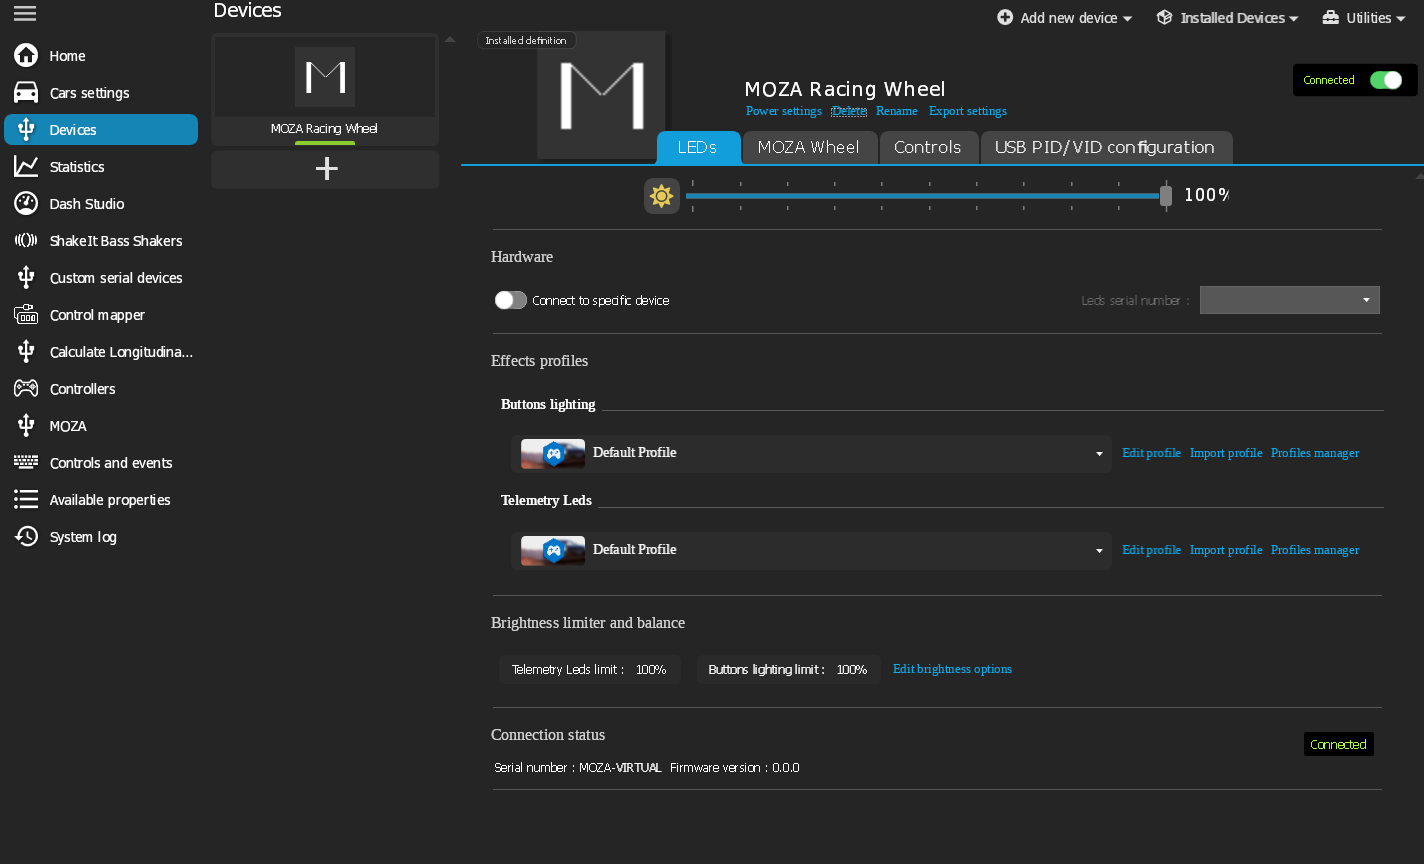
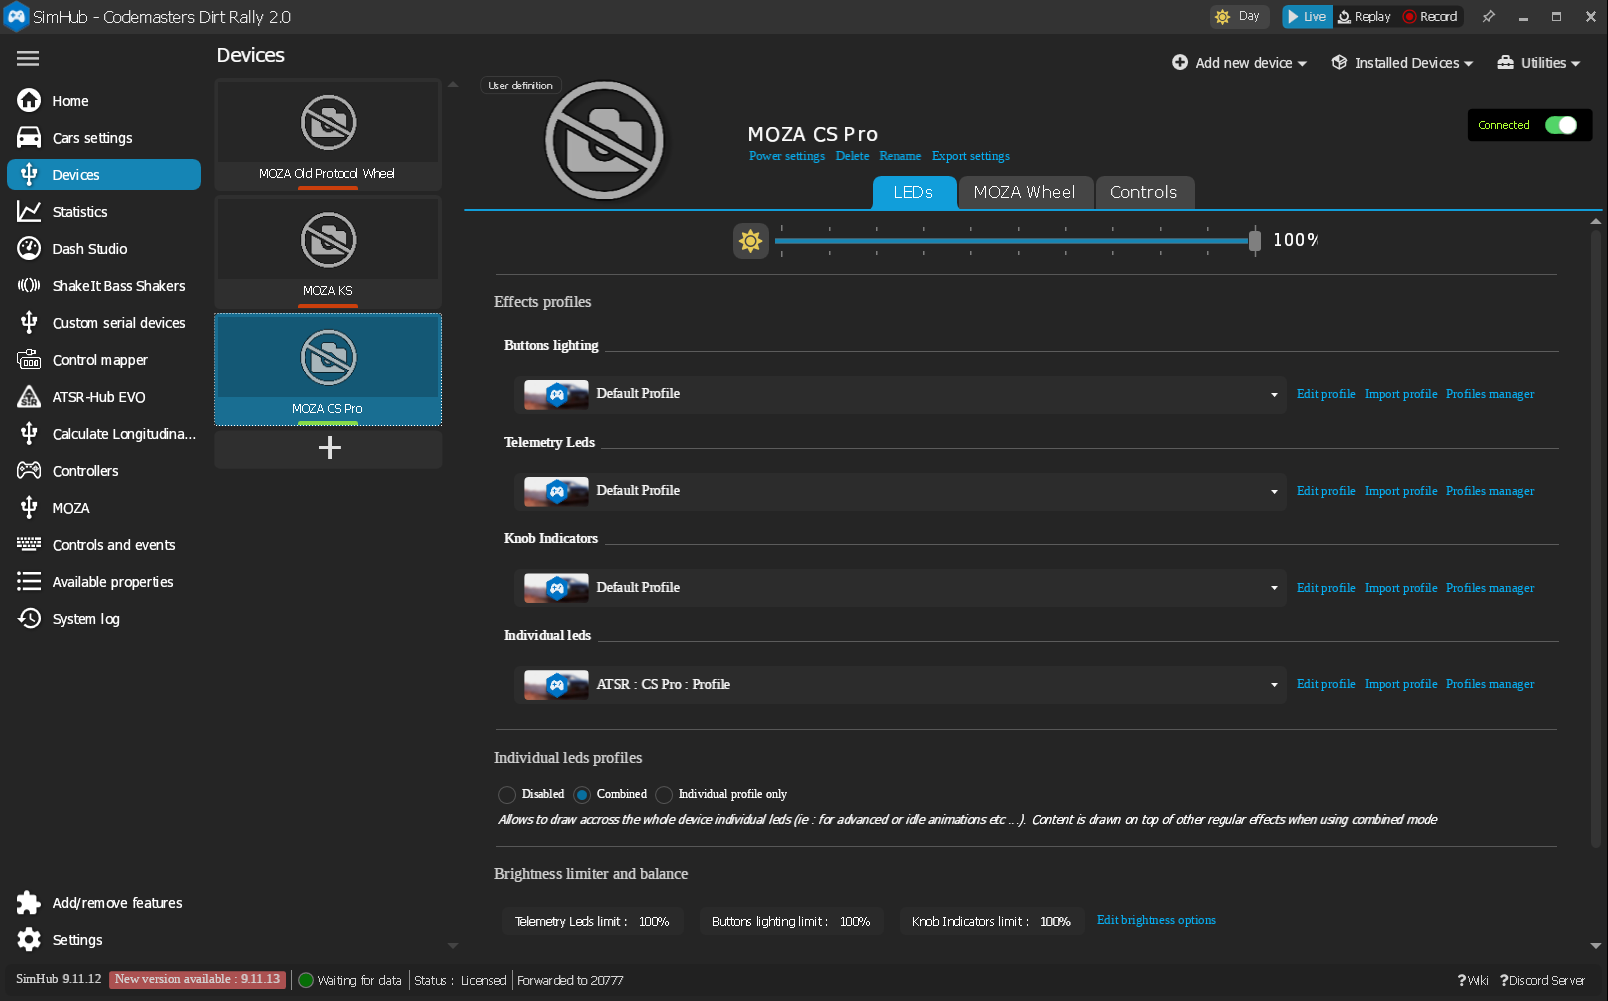
Readme updates

diff --git a/README.md b/README.md
@@ -1,35 +1,35 @@
 # MOZA Plugin for SimHub
 
+> [!NOTE]
+> MOZA is a registered trademark of Gudsen Technology Co., Ltd. This project is not affiliated with, endorsed by, or sponsored by MOZA or Gudsen Technology. All trademarks are the property of their respective owners.
+
 [![Release](https://img.shields.io/github/v/release/giantorth/moza-simhub-plugin)](https://github.com/giantorth/moza-simhub-plugin/releases/latest)
 [![Build](https://img.shields.io/github/actions/workflow/status/giantorth/moza-simhub-plugin/build.yml?branch=main&label=build)](https://github.com/giantorth/moza-simhub-plugin/actions/workflows/build.yml)
 [![Dev Release](https://img.shields.io/badge/dynamic/json?url=https://api.github.com/repos/giantorth/moza-simhub-plugin/releases/tags/dev-latest&query=%24.name&label=dev&color=orange)](https://github.com/giantorth/moza-simhub-plugin/releases/tag/dev-latest)
 [![License: GPL v3](https://img.shields.io/github/license/giantorth/moza-simhub-plugin)](LICENSE)
 [![Discord](https://img.shields.io/discord/1494517781016608888?label=Discord&logo=discord&logoColor=white&color=5865F2)](https://discord.gg/J4enw43e62)
+[![Stars](https://img.shields.io/github/stars/giantorth/moza-simhub-plugin?label=Star&logo=github&color=yellow)](https://github.com/giantorth/moza-simhub-plugin/stargazers)
 
-A SimHub plugin that communicates directly with MOZA Racing hardware over serial, providing full hardware configuration and LED control through SimHub's native device and effects system.
+A SimHub plugin that communicates directly with MOZA Racing hardware over serial, providing  hardware configuration and LED control through SimHub's native device and effects system.
 
-Built using the amazing work of [Boxflat](https://github.com/Lawstorant/boxflat) that reverse-engineered the [MOZA serial protocol](docs/protocol/README.md).
+Built using the amazing work of [Boxflat](https://github.com/Lawstorant/boxflat) and the intial reverse-engineering of the the [MOZA serial protocol](docs/protocol/README.md).
 
-> [!TIP]
-> If you find the plugin useful, [sponsorships on GitHub](https://github.com/sponsors/giantorth) are appreciated.
+> [!NOTE]
+> If you find the plugin useful, please leave a star or [sponsor future development efforts](https://github.com/sponsors/giantorth).
 
 ## Why This Exists
 
 MOZA makes excellent sim racing hardware, but their companion software — Pithouse — is Windows-only. Linux users have no official way to manage LED effects or stream telemetry to your wheel's dashboard. SimHub, on the other hand, runs on Linux (via Proton/Wine), opening the door for cross-platform hardware control with built-in telemetry support.
 
+This plugin opens up MOZA hardware to the wider world of SimHub.  Drive your leds using [ATSR](https://github.com/ATSR-Alex/ATSR-Hub-EVO/) or [DNR](https://www.danielnewmanracing.com/) plugins.  Map any data point from the thousands in SimHub to display on your wheel dashboards.
 The goal is to expand the functionality of MOZA devices to a wider audience by providing tools that work across multiple platforms.  
 
-**Expect a lot of updates in the coming weeks. Feedback and issues are appreciated.**
-
 ![MOZA Plugin Settings](docs/Screenshot.png)
-
-> [!NOTE]
-> MOZA is a registered trademark of Gudsen Technology Co., Ltd. This project is not affiliated with, endorsed by, or sponsored by MOZA or Gudsen Technology. All trademarks are the property of their respective owners.
 
 > [!IMPORTANT]
 > **Close Pithouse before using this plugin.** Both applications communicate with MOZA hardware over the same serial port and cannot be open simultaneously. Pithouse must be fully closed (not just minimized) before SimHub can connect.
 
-> [!WARNING]
+> [!CAUTION]
 > **USE AT YOUR OWN RISK.** This software communicates directly with force feedback hardware capable of producing high torque output that can cause serious injury or property damage. This plugin is provided "as is", without warranty of any kind, express or implied. The authors accept no responsibility or liability for any damage to hardware, injury to persons, or any other loss arising from the use of this software. By using this plugin, you acknowledge the inherent risks of controlling force feedback devices via third-party software and accept full responsibility for any consequences.
 
 ## Custom Effects managed by Simhub
@@ -69,7 +69,9 @@ MOZA wheels and dashboards register as native SimHub devices, appearing in SimHu
 - **Per-Game Device Profiles** — SimHub's device profile system saves and restores LED effect configurations per game
 - **Model-Aware Connection** — Only the device matching the currently connected wheel reports as connected. Swap wheels and the correct device activates automatically
 - **Separate Wheel & Dashboard Devices** — Each registers independently with its own profile and LED configuration
-- **Individual LED Effects (Combined mode)** — SimHub per-LED effects are supported when the wheel device is set to Combined paddle mode. The virtual driver exposes RPM + button LEDs as one contiguous sequence (telemetry first, then buttons) so per-LED effects can target the whole strip
+- **Individual LED Effects** — SimHub's per-LED effects reach the hardware in both "Combined" and "Individual LEDs Only" (Exclusive) modes. The virtual driver exposes RPM + button LEDs as one contiguous strip (telemetry first, then buttons) so per-LED effects can target the whole sequence; knob ring LEDs are addressable via the Extra/encoders channel
+- **Wheelbase Ambient LEDs** — R21/R25/R27-class wheelbases register as a separate "MOZA Wheel Base" SimHub device exposing the 18-LED ambient ring. Drive it from SimHub's effects pipeline, or use the device page for indicator state, brightness, standby animation (Constant/Breath/Cycle/Rainbow/Flow), sleep mode + timeout, and startup/shutdown colors. R9/R12 bases ship without the LED strip and do not expose this device
+- **Per-Wheel Idle & Sleep Effects** — Each wheel's device page has RPM / Buttons / Knobs / Sleep tabs for the hardware's own onboard idle animations (Constant, Breathing, Color Cycle, Rainbow, Sand Flow, RGB Pulse), static RPM/flag/knob colors, and the sleep-light mode + color + standby timeout. These play locally on the wheel when SimHub isn't driving effects (game closed, telemetry paused). Sleep settings persist at the wheel level, not per game
 
 ![LED Effects Configuration](docs/Leds.png)
 
@@ -81,13 +83,12 @@ SimHub contains many effects to choose from and this plugin supports any custom 
 
 Tested:
 - Old-protocol wheels (ES series)
-- R5 Base
+- Multiple Bases
 - New-protocol wheels (Vision GS / GS V2P / TSW / KS Pro / CS Pro / FSR V2)
-- MOZA handbrake (directly attached)
+- MOZA handbrake 
 - Universal Hub (port enumeration + child-device routing)
-- AB9 active shifter (mode + feel sliders) — opt-in, see Options tab
-- Dashboard telemetry + screen updates (confirmed on Vision GS, CS Pro, KS Pro)
-- Per-knob LED colors and knob-ring LEDs (CS Pro / KS Pro)
+- AB9 active shifter (mode + feel sliders)
+- Dashboard telemetry + screen updates (confirmed on Vision GS, CS Pro, KS Pro, and FSR V2)
 
 TBD:
 - Stand-alone dashboards
@@ -102,15 +103,17 @@ Each wheel model has a dedicated SimHub device definition with the correct LED l
 |-------------|:------------:|:---:|:-------:|:-----:|----------------|
 | MOZA GS V2 Pro | GS V2P | 10 | 10 | No | Contiguous (5 left + 5 right) |
 | MOZA CS V2 | CS V2.1 | 10 | 6 | No | Non-contiguous: positions 1,2,4,7,9,10 |
-| MOZA CS Pro | W17 | 16 | 8 | No | Contiguous |
-| MOZA KS Pro | W18 | 18 | 14 | No | RPM strip 3/12/3 (flags merged into RPM sequence) |
+| MOZA CS Pro | W17 | 16 | 8 | No | Contiguous; 4 knobs (12 ring LEDs each) |
+| MOZA KS Pro | W18 | 18 | 14 | No | Contiguous; 5 knobs (12/12/8/12/12 ring LEDs) |
 | MOZA KS | KS | 10 | 10 | No | Contiguous |
 | MOZA FSR V2 | W13 | 16 | 10 | No | Contiguous |
 | MOZA Vision GS | VGS | 10 | 8 | No | Contiguous |
 | MOZA TSW | TSW | 10 | 14 | No | Contiguous |
+| MOZA RS V2 | RS V2 | 10 | 14 | No | Contiguous |
 | MOZA Racing Wheel | *(generic)* | 10 | 14 | No | Contiguous (fallback for unknown models) |
 | MOZA Old Protocol Wheel | *(ES wheels)* | 10 | 0 | No | RPM LEDs only |
 | MOZA Dashboard | — | 10 | 0 | Yes | RPM + flag LEDs |
+| MOZA Wheel Base | *(R21/R25/R27)* | 18 | 0 | No | Ambient LED ring (telemetry strip) |
 
 On wheels with flag LEDs, SimHub sees a single combined telemetry strip laid out as `[flag 1-3][RPM 1-N][flag 4-6]`. Configure flag zones in SimHub's effects UI on those slots.
 
@@ -118,12 +121,16 @@ If your wheel model isn't listed or incorrect, the generic "MOZA Racing Wheel" d
 
 ### Dashboard Support
 
-Wheels with an LCD dashboard (Vision GS, CS Pro, and KS Pro confirmed; others likely work) can receive live telemetry from SimHub — speed, RPM, gear, lap times, fuel, tyre wear, and so on — streamed via MOZA's multi-tier binary telemetry protocol.
+![Dash Channels](docs/DashChannels.png)
+
+Wheels with an LCD dashboard (Vision GS, CS Pro, KS Pro, and FSR V2 confirmed; others likely work) can receive live telemetry from SimHub — speed, RPM, gear, lap times, fuel, tyre wear, and so on — streamed via MOZA's multi-tier binary telemetry protocol.
 
 - **Auto-detect dashboard folder.** The plugin scans your Pithouse install for the `.mzdash` source folder; an "Auto-detect" button on the wheel device page picks it up in one click. Subfolders are searched recursively, so the dropdown shows every layout you've authored in the dashboard builder.
-- **Hot-reload.** Pick a different layout in the Dashboard dropdown and the plugin re-negotiates the wheel's tier definitions and starts streaming the new channel set without restarting SimHub.
-- **Channel mapping.** The wheel device page has a "Channel mappings" expander to override which SimHub property drives each dashboard channel. Leave blank to use the plugin's built-in default mapping (sourced from `Data/Telemetry.json`, ~410 channels).
+- **Hot-reload.** Pick a different layout in the Dashboard dropdown and the plugin re-negotiates the wheel's tier definitions and starts streaming the new channel set without restarting SimHub. If you pick the layout already loaded on the wheel, the plugin detects it and skips the renegotiation.
+- **Channel mapping.** The wheel device page has a "Channel mappings" expander to override which SimHub property drives each dashboard channel. Type 3+ characters to search the live SimHub property list (substring, case-insensitive). Leave blank to use the plugin's built-in default mapping.
+- **String channels.** Dashboards that include text fields (driver name, session type, position labels, etc.) are supported and encoded as UTF-8.
 - **Firmware era.** The Options tab has a "Wheel firmware era" override (Auto / 2024 / 2025 / 2026).
+- **Test pattern.** A "Send Test Pattern" button cycles all mapped channels through known values so you can verify a dashboard is wired up correctly without launching a game.
 
 **Important caveats:**
 
@@ -136,13 +143,24 @@ All settings are stored per-game via SimHub's profile system and switch automati
 
 ### Hardware Configuration
 
-The plugin panel (Settings > Plugins > MOZA Control) exposes read/write control of wheelbase, wheel, handbrake, pedal, hub, and AB9 settings — rotation angle, FFB strength, damping, wheelbase/game effects, FFB equalizer, output curves, paddle/clutch/knob/stick modes, handbrake modes, pedal calibration, hub port enumeration, and AB9 mode + feel sliders — mirroring what Pithouse offers. Tabs auto-show/hide based on what's connected (Base, Wheel, Handbrake, Pedals, AB9 Shifter, Hub, Options, LEDs, Wheel Files, Diagnostics). The Diagnostics tab dumps live wheel identity, dashboard state, and session info for bug reports, with serial numbers redacted by default.
+The plugin panel (Settings > Plugins > MOZA Control) exposes read/write control of wheelbase, wheel, handbrake, pedal, and hub settings — rotation angle, FFB strength, damping, wheelbase/game effects, FFB equalizer, output curves, performance output mode, paddle/clutch/knob/stick modes, handbrake modes, pedal calibration, and hub port enumeration — mirroring what Pithouse offers. Tabs auto-show/hide based on what's connected (Base, Wheel, Handbrake, Pedals, AB9 Shifter, Hub, Options, LEDs, Wheel Files, Diagnostics). The Diagnostics tab dumps live wheel identity, dashboard state, and session info for bug reports, with serial numbers redacted by default.
 
-The Universal Hub gets its own tab listing each connected port and the device attached to it, polled every 2 seconds. AB9 detection is gated by a checkbox in Options (off by default) — the AB9 advertises on a separate serial pipe that some setups don't have, so it's opt-in to avoid spurious port scans.
+The Universal Hub gets its own tab listing each connected port and the device attached to it, polled every 2 seconds.
 
 The plugin also remembers the last-used wheelbase and AB9 COM ports across SimHub restarts, recovers serial connectivity after sleep/resume, and handles wheel hotswap (swap wheels mid-session and the device definition switches automatically once the new wheel reports its model).
 
-#### Serial traffic capture & diagnostics export
+**Gearshift bump.** A tactile pulse fires through the wheelbase on every SimHub-reported gear change, giving you a physical "thunk" through the wheel on each shift. Configurable in the Base tab.  Supports configurable debounce and suppress on neutral options.
+
+### AB9 Active Shifter
+
+Full configuration support for the MOZA AB9 active shifter, surfaced under its own "AB9 Shifter" tab when one is connected:
+
+- **Mechanical layout** — 5+R, 6+R (two patterns), 7+R (two patterns), or Sequential.
+- **Feel** — mechanical resistance, spring, natural damping, natural friction, and max output torque limit, each on a 0–100 slider.
+- **Engine vibration** — intensity (0–100) and frequency (0–300 Hz) for engine-driven shaker effect.
+- **Gear-shift vibration** — pulse intensity (0–100) on every shift.
+
+### Diagnostics & Serial Capture
 
 The Diagnostics tab includes a **Serial traffic capture** section for bug reports:
 
@@ -177,80 +195,3 @@ See [DEVELOPMENT.md](docs/DEVELOPMENT.md) for build instructions (Windows & Linu
 
 Protocol reference: [docs/protocol/](docs/protocol/README.md). USB capture guide: [docs/usb-capture.md](docs/usb-capture.md). SimHub plugin API notes: [docs/simhub.md](docs/simhub.md).
 
-## Project Structure
-
-```
-MozaPlugin.cs                      Main plugin class (IPlugin, IDataPlugin, IWPFSettingsV2)
-MozaDeviceManager.cs               Read/write API for device settings
-Diagnostics/
-  MozaLog.cs                       Thin wrapper over SimHub.Logging.Current; mirrors every [Moza] line into an in-process ring buffer for the Diagnostics tab export
-  SerialTrafficCapture.cs          Toggleable in-memory ring buffer of timestamped TX/RX serial frames (wheelbase + AB9), with optional file sink for long captures
-  SessionRetransmitter.cs          Reissues unacked session frames per the v2 retransmit policy
-Protocol/
-  MozaProtocol.cs                  Protocol constants (start byte, device IDs, checksums)
-  MozaCommand.cs                   Message builder (read/write/int/array)
-  MozaCommandDatabase.cs           150+ command definitions from docs/protocol/devices/
-  MozaResponseParser.cs            Response decoder (bit 7 toggle, nibble swap, wildcard matching, O(1) group-indexed lookup)
-  MozaSerialConnection.cs          Serial port I/O with auto-discovery, sleep/resume recovery, and background threads
-  MozaHidReader.cs                 HID input reader — steering, pedals, paddles, handbrake via HidSharp
-  MozaUsbIds.cs                    Known MOZA USB VID/PID table for serial-port discovery
-  PendingResponseTracker.cs        Tracks outstanding read requests and matches replies back to their callers
-  RetryBackoff.cs                  Exponential-backoff helper for transient serial failures
-  WriteBudget.cs                   Per-pipe write rate limiter — protects the wheel from setting-spam during slider drags
-  SessionPropertyPushBuilder.cs    Builds session-property push frames (display brightness, knob colors, etc.)
-Telemetry/
-  MozaData.cs                      Thread-safe data model for all device values
-  MozaWheelEra.cs / EraPolicy.cs   Per-firmware-era policy (2024/2025/2026): tier-def shape, init handshake, upload header
-  TelemetrySender.cs               Multi-tier game data streaming to dashboard display (legacy v1 pipeline)
-  TelemetryFrameBuilder.cs         Assembles bit-packed telemetry frames
-  TelemetryEncoder.cs              Encodes game values to compressed wire formats
-  TelemetryBitWriter.cs            LSB-first variable-width bit packer
-  TierDefinitionBuilder.cs         Builds the 7c:00 tier-definition TLV (protocol v0 URL-subscription + v2 compact numeric)
-  GameDataSnapshot.cs              Flat snapshot of SimHub game data for frame building
-  DashboardProfile.cs              Channel definitions, tiers, and SimHubField enum
-  DashboardProfileStore.cs         Parses .mzdash files and maps channels to SimHub fields (recursive folder scan)
-  DashboardUploader.cs             Session 0x04 .mzdash upload orchestration (path registration + file content)
-  DashboardDownloader.cs           Pulls a .mzdash off the wheel — currently disabled in the UI, scaffolding kept
-  DashboardCache.cs                Caches downloaded dashboards by hash to avoid redundant transfers
-  DashboardSwitchAutoTest.cs       Cycles through every layout the wheel knows about for end-to-end testing
-  WheelUploadCoordinator.cs        Serializes upload + post-upload state-refresh against the wheel
-  ChannelCatalogParser.cs          Parses the wheel's reported channel catalog (dash-supported channels per layout)
-  FileTransferBuilder.cs           Builds session 0x04 sub-message 1/2 payloads (MD5 + zlib content)
-  ConfigJsonClient.cs              Session 0x09 configJson RPC — advertises the built-in dashboard library to the wheel
-  RpcCallChannel.cs                Request/response wrapper for session-0x0a RPCs (e.g. completelyRemove)
-  SessionRegistry.cs               Tracks open 7c:00 sessions and their roles (mgmt / telemetry / file transfer / configJson / tile-server)
-  SessionDispatcher.cs             Routes inbound session frames to the right consumer (legacy)
-  SessionDataReassembler.cs        Reassembles chunked session data with CRC verification + zlib decompression + seq-gap detection
-  ISessionConsumer.cs              Consumer contract for session-data dispatch
-  WheelDashboardState.cs           Parses the wheel's session 0x09 state blob (dashboards loaded, disabled, library)
-  TileServerStateBuilder.cs        Builds the empty tile-server JSON for session 0x03 uploads (ATS/ETS2 map metadata)
-  TileServerStateParser.cs         Decodes session 0x03 tile-server state blobs received from the wheel
-  PropertyCoercion.cs              Coerces SimHub property values (object) to double for bit-packing
-  KnownSimHubProperties.cs         Curated autocomplete list for the channel-mapping ComboBox
-  TelemetryDiagnostics.cs          Frame logging and test pattern generation
-Data/
-  Telemetry.json                   Telemetry channel URL → SimHub property mapping (410 channels, embedded resource)
-Devices/
-  MozaDeviceExtensionFilter.cs     Attaches extensions to MOZA devices in SimHub's device system
-  MozaDeviceConstants.cs           Per-model GUIDs, GUID-to-model-prefix mapping, LED counts
-  WheelModelInfo.cs                Per-model LED layout — button count, flag presence, index remapping
-  MozaWheelDeviceExtension.cs      Wheel device extension — profiles, LED driver injection
-  MozaWheelExtensionSettings.cs    Wheel settings for SimHub device profiles (includes telemetry)
-  MozaWheelSettingsControl.xaml(.cs) Wheel device tab — LED config, knob colors/rings, dashboard telemetry, channel mapping, Wheel Files browser
-  MozaLedDeviceManager.cs          Virtual wheel LED driver — spoofs connection, forwards LED colors
-  MozaDashDeviceExtension.cs       Dashboard device extension — profiles, LED driver injection
-  MozaDashExtensionSettings.cs     Dashboard settings for SimHub device profiles
-  MozaDashSettingsControl.xaml(.cs) Status panel for the dashboard device extension tab
-  MozaDashLedDeviceManager.cs      Virtual dashboard LED driver — spoofs connection, forwards bitmask
-  MozaAb9DeviceManager.cs          AB9 active shifter — mode + feel slider control over its dedicated serial pipe
-DeviceTemplates/
-  MozaWheelGeneric/                Generic fallback for unknown new-protocol wheels (embedded in DLL)
-  MozaWheelOldProto/               Old-protocol (ES) wheels — RPM LEDs only (embedded in DLL)
-  MozaDashShdp/                    Dashboard definition (10 RPM + 6 flag LEDs, embedded in DLL)
-UI/
-  SettingsControl.xaml(.cs)        WPF settings UI (Base, Wheel, Handbrake, Pedals, AB9 Shifter, Hub, Options, LEDs, Wheel Files, Diagnostics tabs)
-  ColorPickerDialog.xaml(.cs)      RGB color picker with last-picked-color memory and saved swatches
-  MozaPluginSettings.cs            Persisted plugin settings (brightness, timings, colors, last COM ports, era override, capture toggles)
-  MozaProfile.cs                   Per-game configuration snapshot (80+ settings)
-  MozaProfileStore.cs              SimHub profile storage integration
-```